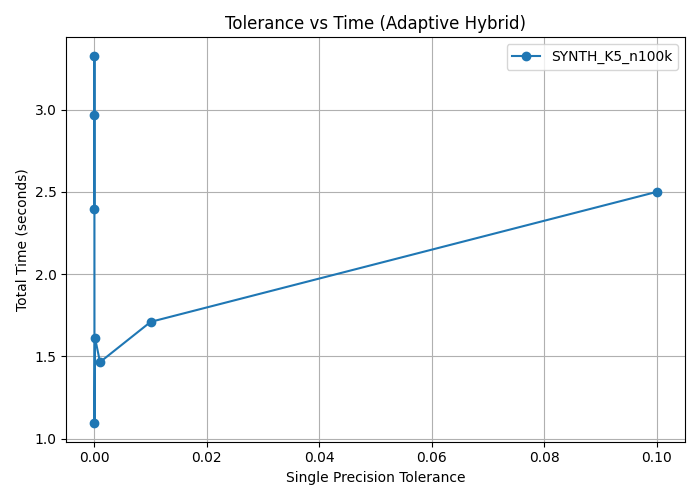
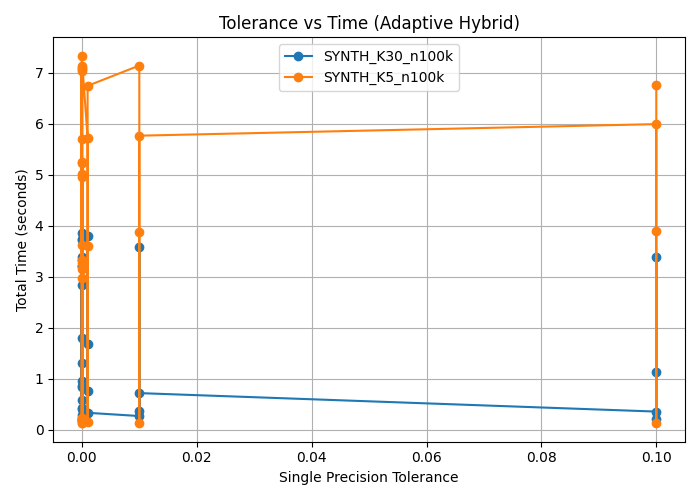
feat: more results

diff --git a/main.py b/main.py
@@ -44,8 +44,8 @@ def load_susy(n_rows=1_000_000):
 
 # CONFIGURATION PARAMETERS 
 dataset_sizes = [100000]
-n_clusters_list = [5]
-n_features_list = [30]  
+n_clusters_list = [5, 8]
+n_features_list = [3, 30]  
 max_iter = 300
 
 tol_fixed_A = 1e-16
@@ -403,8 +403,9 @@ def run_one_dataset(ds_name: str, X_full: np.ndarray, y_full, rows_A, rows_B):
 all_rows = []
 
 synth_specs = [
+    # number of samples; number of features, number of clusters, random seed.s
     ("SYNTH_K5_n100k" , 100_000, 30,  5, 0),
-    # ("SYNTH_K30_n100k", 100_000, 30, 30, 1),
+    ("SYNTH_K30_n100k", 100_000, 30, 30, 1),
 ]
 
 rows_A = []
@@ -446,7 +447,6 @@ print("- hybrid_kmeans_results_expB.csv")
  #   print(f"loading {tag} …")
   #  X_real, y_real = loader()
    # all_rows += run_one_dataset(tag, X_real, y_real)
-
 
 
 # === SUMMARY: Experiment A ===
